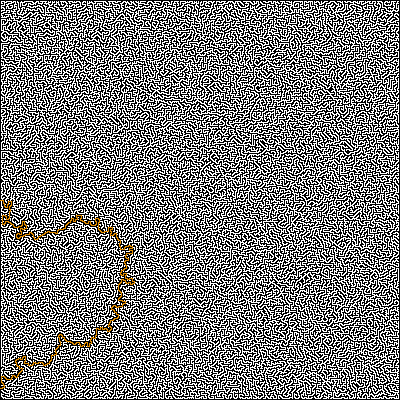
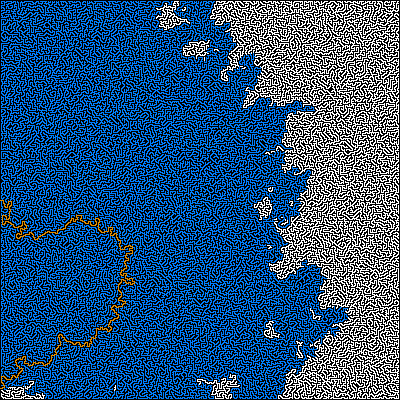
final commit

diff --git a/internal/solver/explore.go b/internal/solver/explore.go
@@ -3,24 +3,29 @@ package solver
 import (
 	"image"
 	"log"
+	"sync"
 )
 
 // listenToBranches creates a new goroutine for each branch published in
 // s.pathsToExplore.
 func (s *Solver) listenToBranches() {
-	for p := range s.pathsToExplore {
-		go s.explore(p)
-		if s.solutionFound() {
+	wg := sync.WaitGroup{}
+	defer wg.Wait()
+
+	for {
+		select {
+		case <-s.quit:
+			log.Println("the treasure has been found, stopping worker")
 			return
+		case p := <-s.pathsToExplore:
+			wg.Add(1)
+			go func(path *path) {
+				defer wg.Done()
+
+				s.explore(p)
+			}(p)
 		}
 	}
-}
-
-// solutionFound returns whether the solution was found.
-func (s *Solver) solutionFound() bool {
-	s.mutex.Lock()
-	defer s.mutex.Unlock()
-	return s.solution != nil
 }
 
 // explore one path and publish to the s.pathsToExplore channel
@@ -32,7 +37,13 @@ func (s *Solver) explore(pathToBranch *path) {
 
 	pos := pathToBranch.at
 
-	for !s.solutionFound() {
+	for {
+		select {
+		case <-s.quit:
+			return
+		case s.exploredPixels <- pos:
+		}
+
 		candidates := make([]image.Point, 0, 3)
 		for _, n := range neighbours(pos) {
 			if pathToBranch.isPreviousStep(n) {
@@ -42,11 +53,12 @@ func (s *Solver) explore(pathToBranch *path) {
 			switch s.maze.RGBAAt(n.X, n.Y) {
 			case s.palette.treasure:
 				s.mutex.Lock()
-				defer s.mutex.Unlock()
 				if s.solution == nil {
 					s.solution = &path{previousStep: pathToBranch, at: n}
 					log.Printf("Treasure found: %v!", s.solution.at)
+					close(s.quit)
 				}
+				s.mutex.Unlock()
 				return
 			case s.palette.path:
 				candidates = append(candidates, n)
@@ -60,7 +72,16 @@ func (s *Solver) explore(pathToBranch *path) {
 
 		for _, candidate := range candidates[1:] {
 			branch := &path{previousStep: pathToBranch, at: candidate}
-			s.pathsToExplore <- branch
+			// We are sure we send to pathsToExplore only when the quit channel isn't closed.
+			// A goroutine might have found the treasure since the check at the start of the loop.
+			select {
+			// s.quit returns a zero value only when the channel was closed, here -- when the exploration should end.
+			case <-s.quit:
+				log.Printf("I'm an unlucky branch, someone else found the treasure, I give up at position %v.", pos)
+				return
+			case s.pathsToExplore <- branch:
+				// continue execution after the select block
+			}
 		}
 
 		pathToBranch = &path{previousStep: pathToBranch, at: candidates[0]}

diff --git a/internal/solver/animation.go b/internal/solver/animation.go
@@ -1,0 +1,80 @@
+package solver
+
+import (
+	"image"
+	plt "image/color/palette"
+
+	"golang.org/x/image/draw"
+)
+
+// countExplorablePixels scans the maze and counts the number
+// of pixels that are not walls.
+func (s *Solver) countExplorablePixels() int {
+	explorablePixels := 0
+	for row := s.maze.Bounds().Min.Y; row < s.maze.Bounds().Max.Y; row++ {
+		for col := s.maze.Bounds().Min.X; col < s.maze.Bounds().Max.X; col++ {
+			if s.maze.RGBAAt(col, row) != s.palette.wall {
+				explorablePixels++
+			}
+		}
+	}
+
+	return explorablePixels
+}
+
+// registerExploredPixels registers positions as explored on the image,
+// and, if we reach a threshold, adds the frame to the output GIF.
+func (s *Solver) registerExploredPixels() {
+	const totalExpectedFrames = 30
+
+	explorablePixels := s.countExplorablePixels()
+	pixelsExplored := 0
+
+	frameInterval := explorablePixels / totalExpectedFrames
+	if frameInterval == 0 {
+		frameInterval = 1
+	}
+
+	for {
+		select {
+		case <-s.quit:
+			return
+		case pos := <-s.exploredPixels:
+			s.maze.Set(pos.X, pos.Y, s.palette.explored)
+			pixelsExplored++
+			if pixelsExplored%frameInterval == 0 {
+				s.drawCurrentFrameToGIF()
+			}
+		}
+	}
+}
+
+// drawCurrentFrameToGIF adds the current state of the maze as a frame of the animation.
+func (s *Solver) drawCurrentFrameToGIF() {
+	const (
+		gifWidth      = 500
+		frameDuration = 20
+	)
+
+	frame := image.NewPaletted(image.Rect(0, 0, gifWidth, gifWidth*s.maze.Bounds().Dy()/s.maze.Bounds().Dx()), plt.Plan9)
+
+	draw.NearestNeighbor.Scale(frame, frame.Rect, s.maze, s.maze.Bounds(), draw.Over, nil)
+
+	s.animation.Image = append(s.animation.Image, frame)
+	s.animation.Delay = append(s.animation.Delay, frameDuration)
+}
+
+// writeLastFrame writes the last frame of the gif, with the solution highlighted.
+func (s *Solver) writeLastFrame() {
+	stepsFromTreasure := s.solution
+	// Paint the path from entrance to the treasure.
+	for stepsFromTreasure != nil {
+		s.maze.Set(stepsFromTreasure.at.X, stepsFromTreasure.at.Y, s.palette.solution)
+		stepsFromTreasure = stepsFromTreasure.previousStep
+	}
+
+	const solutionFrameDuration = 300 // 3 seconds
+	// Add the solution frame, with the coloured path, to the output gif.
+	s.drawCurrentFrameToGIF()
+	s.animation.Delay[len(s.animation.Delay)-1] = solutionFrameDuration
+}

diff --git a/internal/solver/solver.go b/internal/solver/solver.go
@@ -3,6 +3,7 @@ package solver
 import (
 	"fmt"
 	"image"
+	"image/gif"
 	"log"
 	"sync"
 )
@@ -10,12 +11,17 @@ import (
 // Solver is capable of finding the path from the entrance to the treasure.
 // The maze has to be a RGBA image.
 type Solver struct {
-	maze           *image.RGBA
-	palette        palette
+	maze    *image.RGBA
+	palette palette
+
 	pathsToExplore chan *path
+	quit           chan struct{}
 
 	solution *path
 	mutex    sync.Mutex
+
+	exploredPixels chan image.Point
+	animation      *gif.GIF
 }
 
 // New builds a Solver by taking the path to the PNG maze, encoded in RGBA.
@@ -25,9 +31,13 @@ func New(imagePath string) (*Solver, error) {
 		return nil, fmt.Errorf("cannot open maze image: %w", err)
 	}
 
-	return &Solver{maze: img,
+	return &Solver{
+		maze:           img,
 		palette:        defaultPalette(),
 		pathsToExplore: make(chan *path, 1),
+		quit:           make(chan struct{}),
+		exploredPixels: make(chan image.Point),
+		animation:      &gif.GIF{},
 	}, nil
 }
 
@@ -41,7 +51,23 @@ func (s *Solver) Solve() error {
 	log.Printf("starting at %v", entrance)
 
 	s.pathsToExplore <- &path{previousStep: nil, at: entrance}
-	s.listenToBranches()
+
+	wg := sync.WaitGroup{}
+	wg.Add(2)
+
+	go func() {
+		defer wg.Done()
+		s.registerExploredPixels()
+	}()
+
+	go func() {
+		defer wg.Done()
+		s.listenToBranches()
+	}()
+
+	wg.Wait()
+
+	s.writeLastFrame()
 
 	return nil
 }

diff --git a/internal/solver/imagefile.go b/internal/solver/imagefile.go
@@ -5,8 +5,11 @@ import (
 	"fmt"
 	"image"
 	"image/draw"
+	"image/gif"
 	"image/png"
+	"log"
 	"os"
+	"strings"
 )
 
 // openMaze opens a RGBA png image from a path.
@@ -54,6 +57,36 @@ func (s *Solver) SaveSolution(outputPath string) error {
 	err = png.Encode(f, s.maze)
 	if err != nil {
 		return fmt.Errorf("unable to write output image at %s: %w", outputPath, err)
+	}
+
+	gifPath := strings.Replace(outputPath, "png", "gif", -1)
+	err = s.saveAnimation(gifPath)
+
+	if err != nil {
+		return fmt.Errorf("unable to write output animation at %s", gifPath)
+	}
+
+	return nil
+}
+
+// saveAnimation writes the gif file.
+func (s *Solver) saveAnimation(gifPath string) error {
+	outputImage, err := os.Create(gifPath)
+	if err != nil {
+		return fmt.Errorf("unable to create output gif at %s: %w", gifPath, err)
+	}
+
+	defer func() {
+		if closeErr := outputImage.Close(); closeErr != nil {
+			// Return err and closeErr, in worst case scenario.
+			err = errors.Join(err, fmt.Errorf("unable to close file: %w", closeErr))
+		}
+	}()
+
+	log.Printf("animation contains %d frames\n", len(s.animation.Image))
+	err = gif.EncodeAll(outputImage, s.animation)
+	if err != nil {
+		return fmt.Errorf("unable to encode gif: %w", err)
 	}
 
 	return nil

diff --git a/internal/solver/palette.go b/internal/solver/palette.go
@@ -9,6 +9,7 @@ type palette struct {
 	entrance color.RGBA
 	treasure color.RGBA
 	solution color.RGBA
+	explored color.RGBA
 }
 
 // defaultPalette returns the colour palette of our maze.
@@ -24,5 +25,7 @@ func defaultPalette() palette {
 			R: 255, G: 0, B: 128, A: 255},
 		solution: color.RGBA{
 			R: 225, G: 140, B: 0, A: 255},
+		explored: color.RGBA{
+			R: 0, G: 128, B: 255, A: 255},
 	}
 }
